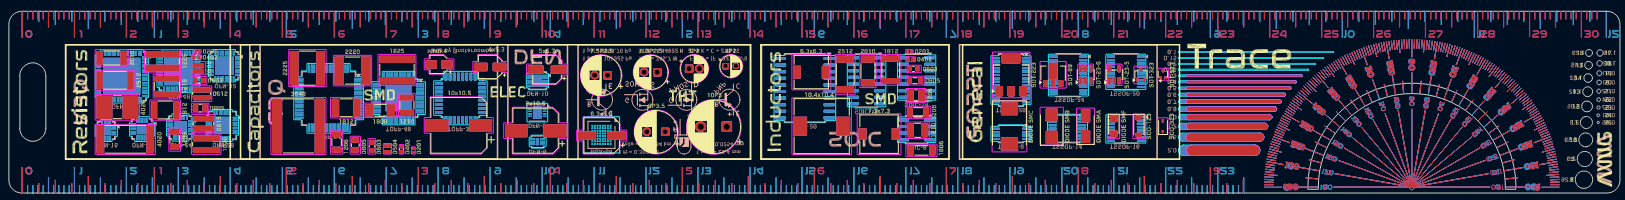
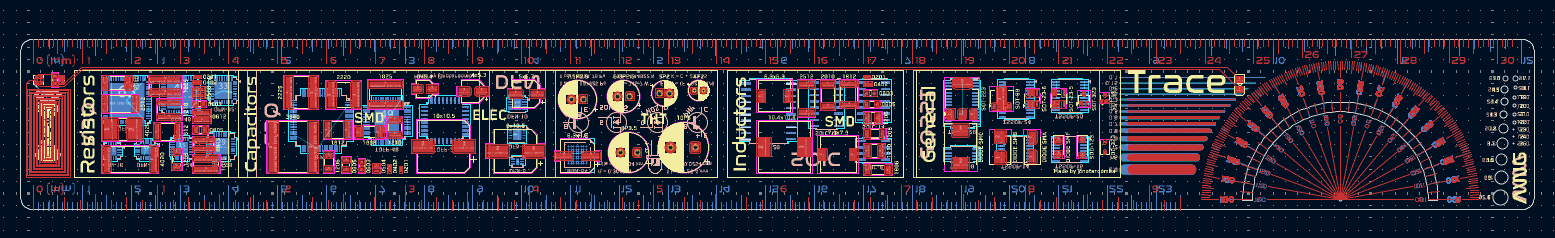
udpated readme

diff --git a/README.md b/README.md
@@ -39,6 +39,7 @@ A comprehensive PCB ruler with essential reference footprints, measurements, and
   - ICs (various packages)
 - **MOSFET channel type reference** silkscreen
 - **Useful conversions** on the back
+- **NFC Tag** to keep owner info / save more conversions/formulas/information
 
 ## PCB
 
